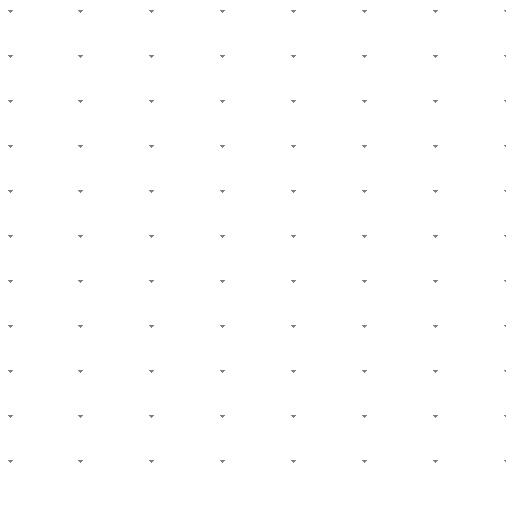
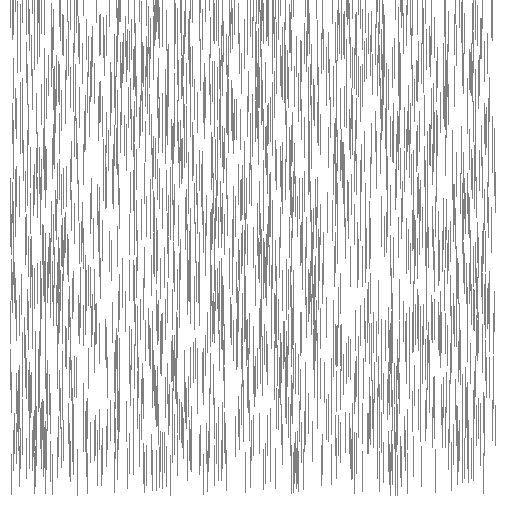
tensor wip

Changed region(s): [[0.0, 0.0, 1.0, 0.9783]]

diff --git a/tensor_stroke.py b/tensor_stroke.py
@@ -1,11 +1,112 @@
 import cv2 as cv
 import numpy as np
 import random
+import matplotlib.pyplot as plt
+from scipy.linalg import sqrtm
 from skimage.draw import line
 from skimage import feature
 
+
+
+def structure_tensor_eigvectors(Axx, Axy, Ayy):
+    
+    det = (Axx - Ayy) ** 2 + 4 * Axy ** 2
+    
+    first = Axy * 2
+    second_pos = Ayy - Axx + np.sqrt(det)
+    second_neg = Ayy - Axx - np.sqrt(det)
+
+    O1 =  np.stack([first,second_pos],axis=-1)
+    O2 =  np.stack([first,second_neg],axis=-1)
+
+    return O1, O2
+
+def structure_tensor_eigvals(Axx, Axy, Ayy):
+    
+    det = (Axx - Ayy) ** 2 + 4 * Axy ** 2
+
+    E1 = (Axx + Ayy) / 2 + np.sqrt(det) / 2
+    E2 = (Axx + Ayy) / 2 - np.sqrt(det) / 2
+
+    return E1, E2
+
+def structure_tensor(Axx, Axy, Ayy):
+    T1 = np.stack([Axx,Axy],axis=-1)
+    T2 = np.stack([Axy,Ayy],axis=-1)
+    T = np.stack([T1,T2],axis=-1)
+    return T
+
+def tensor_field(E1, E2, O1, O2, p1, p2):
+    
+    C1 = np.add(E1,E2) + 1. ** (-p1)
+    C2 = np.add(E1,E2) + 1. ** (-p2)
+
+    T1 = np.einsum('...j,...k->...jk',O1,O1)
+    T2 = np.einsum('...j,...k->...jk',O2,O2)
+
+    T = np.add(np.einsum('ij,ijkl->ijkl', C1, T1), np.einsum('ij,ijkl->ijkl', C2, T2))
+    
+    return T
+
+def tensor_field_sqrt(T):
+    T_sqrt = np.zeros(T.shape)
+    for i in range(T.shape[0]):
+        for j in range(T.shape[1]):
+            T_sqrt[i,j] = sqrtm(T[i,j])
+
+    return T_sqrt
+
+def display_vector_field(vector_field, title_plot):
+
+    height, width, _ = vector_field.shape
+
+    X, Y = np.meshgrid(np.arange(0, width, 1), np.arange(0, height, 1))
+    
+    U = np.zeros(X.shape)
+    V = np.zeros(X.shape)
+
+    for j in range(X.shape[0]):
+        for i in range(X.shape[1]):
+            U[j, i] = vector_field[j][i][0] * 100
+            V[j, i] = vector_field[j][i][1] * 100
+
+    _, ax = plt.subplots()
+    skip_scalar = 5
+    skip = (slice(None, None, skip_scalar), slice(None, None, skip_scalar))
+    ax.quiver(X[skip], Y[skip], U[skip], V[skip], units='xy' ,scale=0.5, color='blue')
+    ax.set(aspect=1, title=title_plot)
+
+    plt.gca().invert_yaxis()
+    #plt.savefig(filename, bbox_inches='tight', dpi=200)
+    # plt.ion()
+    plt.show()
+    plt.pause(0.005)
+
+def draw_stroke(canvas, origin, direction, size):
+
+    destination = [origin[0] + size, origin[1] + size]
+    vec         = np.subtract(origin,destination)
+    
+    dot = np.dot( vec, direction ) / ( np.linalg.norm(vec) * np.linalg.norm(origin) )
+    det = np.linalg.det([vec, direction]) / ( np.linalg.norm(vec) * np.linalg.norm(origin) )
+    angle = np.arctan2(det, dot) + np.pi / 2.
+
+    c, s = np.cos(angle), np.sin(angle)
+    R = np.array(((c, -s), (s, c)))
+    pix_to_move = R.dot(vec).astype(int)
+    destination_point = (origin[0] + pix_to_move[0] , origin[1] + pix_to_move[1])
+
+    cv.line(canvas, ( origin[1],origin[0] ), ( destination_point[1],destination_point[0] ) , 128,1)
+    return destination_point
+
+
+
+
 # Ouverture image
+# img = cv.imread("images/frog.jpg")
 img = cv.imread("images/test.PNG")
+# img = cv.imread("images/lenna.png")
+
 img = cv.cvtColor(img, cv.COLOR_BGR2YUV)
 
 rows = img.shape[0]
@@ -14,24 +115,93 @@ cols = img.shape[1]
 
 # On isole le channel Y
 img_lumi = cv.split(img)[0]
-img_lumi = cv.GaussianBlur(img_lumi,(5,5), 2)
+img_lumi = cv.GaussianBlur(img_lumi,(3,3), 0)
 
-Axx, Axy, Ayy  = feature.structure_tensor(img_lumi)
-E1, E2 = feature.structure_tensor_eigvals( Axx, Axy, Ayy )
-print(E1.shape)
-T1 = np.stack([Axx,Axy],axis=-1)
-T2 = np.stack([Axy,Ayy],axis=-1)
-T = np.stack([T1,T2],axis=-1)
+Axx, Axy, Ayy = feature.structure_tensor(img_lumi)
+Axx = cv.GaussianBlur(Axx,(5,5), 0)
+Axy = cv.GaussianBlur(Axy,(5,5), 0)
+Ayy = cv.GaussianBlur(Ayy,(5,5), 0)
+
+E1, E2        = structure_tensor_eigvals( Axx, Axy, Ayy )
+O1, O2        = structure_tensor_eigvectors( Axx, Axy, Ayy )
+G             = structure_tensor( Axx, Axy, Ayy )
+T             = tensor_field( E1, E2, O1, O2, 1.2, 0.5 )
+T_sqrt        = tensor_field_sqrt(T)
+
+print("Tensor field done !")
+
+# print(T)
+# print(T.shape)
+# print(img_lumi.shape)
 
 # Canvas
 canvas = np.full((rows,cols), 255, np.uint8)
 
-grid_i = np.linspace(10,rows,8,dtype=int)
-grid_j = np.linspace(10,cols,12,dtype=int)
+# I try to do cool looking ellipses
+E1norm = E1 / np.max(E1)
+E2norm = E2 / np.max(E2)
 
-for i in grid_i:
-    for j in grid_j:
-        cv.ellipse(canvas, (i,j), (2,2), 0, 0, 180, 128,-1,8,0)
+
+eig_lambda1 = E1norm
+eig_lambda2 = E2norm
+
+eig_eta = O1
+
+shift = 12
+
+
+
+
+for angle in [3.14/2]:
+
+    a = np.array([np.cos(angle), np.sin(angle)])
+    w = np.einsum('...ij,j->...i',T_sqrt,a)
+    # w = w / np.max(w)
+
+    display_vector_field(w[10:-10,10:-10],str(angle))
+
+
+    coords = [(random.randrange(10,rows-10), random.randrange(10,cols-10)) for _ in range(2000)]
+
+    for p in coords:
+        
+        current = p
+
+        for _ in range(10):
+            
+            next_point = draw_stroke(canvas, current, w[current], 3)
+
+            if next_point[0] >= rows or next_point[1] >= cols or next_point[0] < 0 or next_point[1] < 0 :
+                break
+            
+            current = next_point
+
+
+# for i in range(10,rows,shift):
+#     for j in range(10,cols,shift):
+
+#         axesLength = (int(np.log(1 + 100000*eig_lambda1[i,j])),3) #log(10000)=4
+#         angleG = int(np.arctan2(eig_eta[i,j,1], eig_eta[i,j,0])  * 180. / np.pi)
+#         angleI = int(np.arctan2(eig_eta[i,j,0], -eig_eta[i,j,1]) * 180. / np.pi)
+#         cv.ellipse(canvas, (j,i), axesLength, angleI, 0, 360, 0,1)
+
+
+# grid_i = np.linspace(10,rows-1,20,dtype=int)
+# grid_j = np.linspace(10,cols-1,20,dtype=int)
+
+# scale = 8
+
+# E1sc = (E1 * scale).astype(int)
+# E2sc = (E2 * scale).astype(int)
+# O1sc = (O1 * scale).astype(int)
+# O2sc = (O2 * scale).astype(int)
+# print(E1sc)
+# print(E2sc)
+# print(E1sc[10,10],E2sc[10,10])
+# for i in grid_i:
+#     for j in grid_j:
+#         print((E1sc[i,j],E2sc[i,j]))
+#         cv.ellipse(canvas, (j,i), (E1sc[i,j] + 3,E2sc[i,j] + 3), 0, 0, 360, 128,-1,8,0)
 
 # # Angle set
 # angles = np.linspace(0,180,7)
@@ -57,7 +227,11 @@ for i in grid_i:
 
 #         cv.line(canvas,(x,y),(xn,yn),0)
 
-# Show canvas
+# Show
+# cv.imshow("e1", E1)
+# cv.imshow("e2", E2)
+# cv.imshow("e1norm", E1norm)
+# cv.imshow("e2norm", E2norm)
 cv.imshow("canvas", canvas)
 
 # Enregistrement

diff --git a/hello.py b/hello.py
@@ -1,6 +1,55 @@
 import cv2 as cv
+import numpy as np
 
-img = cv.imread("images/frog.jpg")
-img = cv.cvtColor(img, cv.COLOR_BGR2GRAY)
+# u = np.ones((3,3,2))
+# v = np.ones((3,3,2)) 
+# w = np.array([[1,2,3],[4,5,6],[7,8,9]])
 
-print(img.shape)
+# # print(u)
+# up = np.einsum('...j,...k->...jk',u,u) 
+# res = np.einsum('ij,ijkl->ijkl',w,up)
+# print(res)
+
+# ol = np.ones((3,3,2,2))
+# ok = np.ones((2))
+
+# res = np.einsum('...ij,j->...i',ol,ok) 
+
+# aa = [1,2,3,4,5,6,7,8,9]
+# print(aa[2:-2])
+
+canvas = np.full((200,200), 255, np.uint8)
+
+p1 = [100,100]
+p2 = [50,100]
+
+print(np.add(p1,2))
+
+cv.line(canvas, (p1[1],p1[0]), (p2[1],p2[0]), 128,1)
+cv.circle(canvas, (p1[1],p1[0]), 50, 128,1)
+p3 = [-1,0]
+
+while True:
+    o1 = np.subtract(p2,p1)
+    o2 = p3
+
+    dot = np.dot(o1,o2) / (np.linalg.norm(o1) * np.linalg.norm(o2))
+    det = np.linalg.det([o1,o2]) / (np.linalg.norm(o1) * np.linalg.norm(o2))
+    angle = np.arctan2(det,dot)
+    #angle = np.radians(270)
+
+    print(angle)
+
+    c, s = np.cos(angle), np.sin(angle)
+    R = np.array(((c, -s), (s, c)))
+    print(R)
+
+    res = R.dot(o1)
+    print(( int(p1[0] + res[0]) , int(p1[1] + res[1]) ))
+
+    cv.line(canvas, (p1[1],p1[0]), ( int(p1[1] + res[1]) , int(p1[0] + res[0]) ), 128,1)
+
+    cv.imshow("canvas", canvas)
+    cv.waitKey(1)
+    p3[0] = float(input())
+    p3[1] = float(input())
